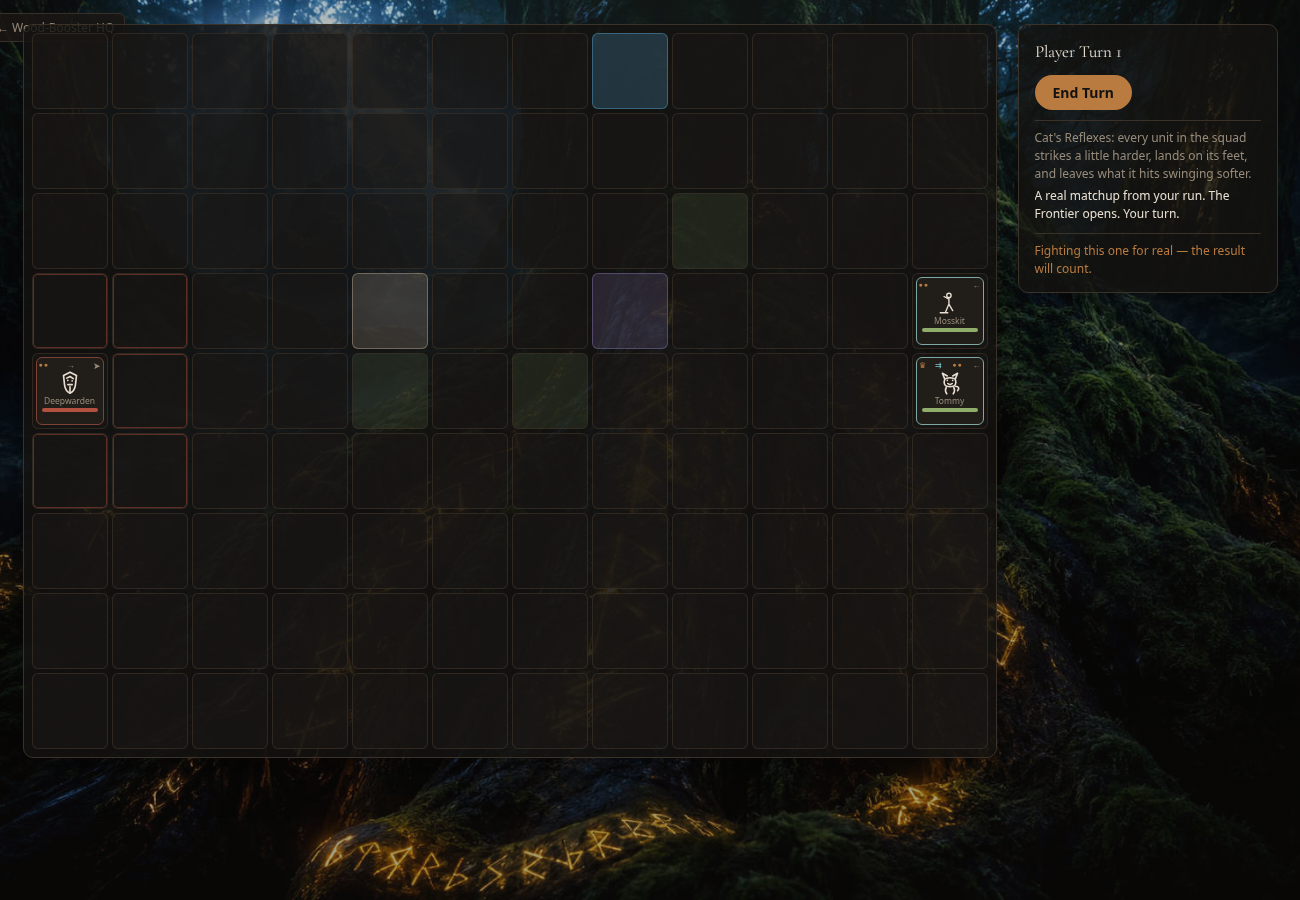
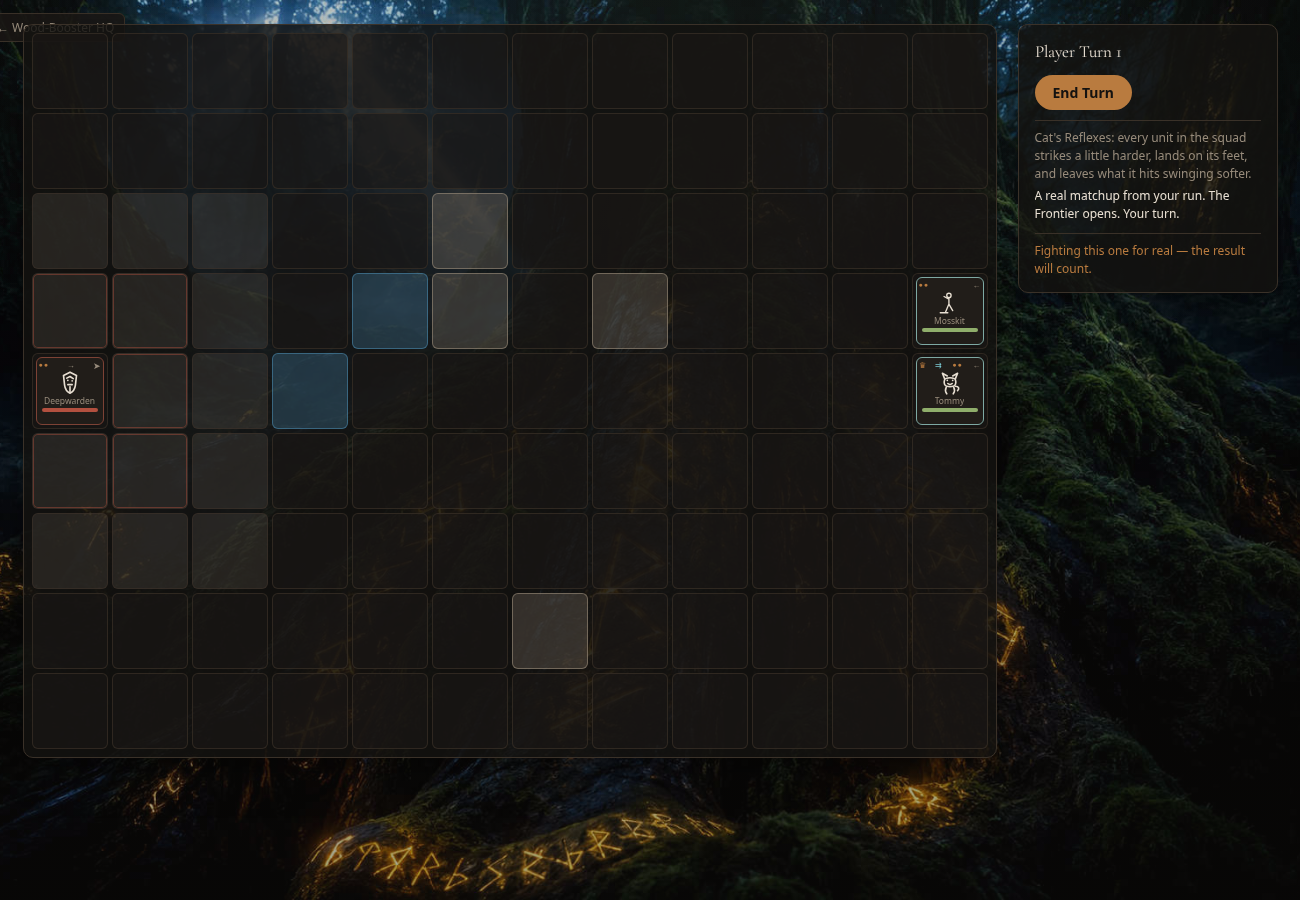
Hearthwood Frontier: Threat Zone (a bigger, movement-blocking Zone of Control)
Movement PRD §4.3's next zone sub-type after Basic Zone: "controls a
larger area and can block advancing." Tanky melee units (range===1 &&
move===2, the same real moveFromMaxHp signal already used symmetrically
on both sides) project a radius-2 zone; entering an opposing Threat
Zone cell from clean ground consumes a mover's entire move budget for
that action, so it can never be used as a through-route - but a unit
already engaged nearby (or standing adjacent) can still step directly
in and attack, avoiding a dead-end where the controller becomes
unmeleeable from outside its own zone.

Additive, not a replacement: every melee unit keeps its exact existing
Basic Zone reaction-on-leaving behavior unchanged (confirmed directly
via a dedicated check, since a replacement design would have silently
removed rotwood-husk's own already-shipped reaction attack).

Verify: both full existing suites ran clean before any new checks were
written (150/150 prototype, 25/25 real-battle, 0 regressions). Two bugs
caught while writing the NEW checks themselves (before shipping, not
after): a too-small test grid made a cell unreachable via plain unit
occupancy, unrelated to the zone; and the zone's own step-cost briefly
over-punished units already standing inside it, fixed by only applying
the cap when approaching from outside. Extended: prototype 150->155,
real-battle 25->26.

diff --git a/src/services/heartwood/tacticsEngine.js b/src/services/heartwood/tacticsEngine.js
@@ -863,7 +863,27 @@ export function reachableTilesFor(state, unitId) {
   const unit = getUnit(state, unitId)
   if (!unit || unit.hp <= 0) return []
   const occupied = state.units.filter((u) => u.id !== unitId && u.hp > 0).map((u) => u.pos)
-  return reachableTilesRaw(occupied, unit.pos, unit.move, state.grid, (pos) => TERRAIN[terrainAt(state, pos)].cost)
+  const opposingSide = unit.side === "player" ? "enemy" : "player"
+  // Only a unit APPROACHING from clean ground is capped - one already
+  // standing inside an opposing Threat Zone (adjacent to a tanky
+  // enemy, mid-engagement) can still maneuver normally nearby, the
+  // same way Basic Zone's own reaction only fires on truly LEAVING,
+  // not on every step taken while already close. Without this guard a
+  // unit that starts inside ANY opposing threat zone could barely move
+  // at all - over-punishing, not "blocks advancing" as the PRD says.
+  const startedInsideThreatZone = threatZoneControllers(state, unit.pos, opposingSide).length > 0
+  return reachableTilesRaw(occupied, unit.pos, unit.move, state.grid, (pos) => {
+    const baseCost = TERRAIN[terrainAt(state, pos)].cost
+    // Threat Zone round (Movement PRD §4.3): entering a cell inside an
+    // opposing Threat Zone consumes the mover's ENTIRE move budget for
+    // this action - a hard-to-press-past deterrent, not a flat "you
+    // may never enter" wall (that would make the controller itself
+    // unmeleeable from outside its own zone). `unit.move` (not
+    // Infinity) is exactly the cost that always exhausts whatever
+    // budget remains once spent here.
+    if (!startedInsideThreatZone && threatZoneControllers(state, pos, opposingSide).length > 0) return unit.move
+    return baseCost
+  })
 }
 
 // Enemies (or allies) within the unit's range of its CURRENT tile - a
@@ -910,6 +930,43 @@ function checkTacticsBattleEnd(state) {
 // Zone needs.
 function zocControllers(state, pos, side) {
   return state.units.filter((u) => u.side === side && u.hp > 0 && u.range === 1 && kingAdjacent(u.pos, pos))
+}
+
+// Threat Zone round (Movement PRD §4.3): "hallitsee suurempaa aluetta
+// ja voi estää etenemistä" - controls a LARGER area and can block
+// advancing. `move === 2` is the exact real, already-existing signal
+// for "this melee unit is big/tanky" (moveFromMaxHp already grants it
+// to every maxHp>=40 unit, symmetric across both sides, zero new
+// authoring) - reused directly rather than inventing a new field.
+// ADDITIVE, not a replacement: a tanky melee unit keeps its full Basic
+// Zone behavior (the reaction attack above) completely unchanged, and
+// separately ALSO projects this wider zone - confirmed necessary since
+// rotwood-husk (maxHp 58) already has real, shipped, verified Basic
+// Zone reaction behavior that a REPLACEMENT design would have silently
+// removed.
+function isTankyMelee(unit) {
+  return unit.range === 1 && unit.move === 2
+}
+
+function threatZoneControllers(state, pos, side) {
+  return state.units.filter((u) => u.side === side && u.hp > 0 && isTankyMelee(u) && chebyshevDist(u.pos, pos) <= 2)
+}
+
+// Every "row-col" cell currently controlled by a living tanky-melee
+// `side` unit, radius 2 - for the UI, the same static-board-property
+// pattern zoneOfControlCells already established.
+export function threatZoneCells(state, side) {
+  const cells = new Set()
+  for (const controller of state.units.filter((u) => u.side === side && u.hp > 0 && isTankyMelee(u))) {
+    for (let dr = -2; dr <= 2; dr++) {
+      for (let dc = -2; dc <= 2; dc++) {
+        if (dr === 0 && dc === 0) continue
+        const pos = { row: controller.pos.row + dr, col: controller.pos.col + dc }
+        if (isOnBoard(pos, state.grid)) cells.add(`${pos.row}-${pos.col}`)
+      }
+    }
+  }
+  return cells
 }
 
 // Every "row-col" cell currently controlled by a living melee `side`

diff --git a/src/components/heartwood/TacticsBoard.jsx b/src/components/heartwood/TacticsBoard.jsx
@@ -25,6 +25,7 @@ import {
   previewEnemyIntents,
   previewChargeThreat,
   zoneOfControlCells,
+  threatZoneCells,
   flankRole,
 } from "../../services/heartwood/tacticsEngine"
 import { motion } from "framer-motion"
@@ -111,6 +112,10 @@ export default function TacticsBoard({
   // currently selected - visible throughout the player's own turn,
   // same phase-gating as the charge/intent telegraphs above.
   const zocCells = useMemo(() => (battle.phase === "player" ? zoneOfControlCells(battle, "enemy") : new Set()), [battle])
+  // Threat Zone round: same static, phase-gated pattern as zocCells
+  // above - a separate set since a cell can be in one, both, or
+  // neither (the 2 mechanics are additive, not mutually exclusive).
+  const threatCells = useMemo(() => (battle.phase === "player" ? threatZoneCells(battle, "enemy") : new Set()), [battle])
 
   const cellUnit = (row, col) => battle.units.find((u) => u.pos.row === row && u.pos.col === col && u.hp > 0)
   const isReachable = (row, col) => reachable.some((p) => p.row === row && p.col === col)
@@ -187,6 +192,7 @@ export default function TacticsBoard({
       const intent = unit && unit.side === "enemy" ? intentByEnemyId.get(unit.id) : null
       const terrain = terrainHere(row, col)
       const zoc = zocCells.has(`${row}-${col}`)
+      const threatZone = threatCells.has(`${row}-${col}`)
       cells.push(
         <div
           key={`${row}-${col}`}
@@ -197,6 +203,7 @@ export default function TacticsBoard({
           data-threatened={!!threatened}
           data-terrain={terrain}
           data-zoc={zoc}
+          data-threat-zone={threatZone}
           onClick={() => handleCellClick(row, col)}
         >
           {unit && (

diff --git a/src/components/heartwood/heartwood-tactics.css b/src/components/heartwood/heartwood-tactics.css
@@ -112,6 +112,14 @@
   box-shadow: inset 0 0 0 1px color-mix(in srgb, var(--hw-hp) 45%, transparent);
 }
 
+/* Threat Zone round: a distinct, stronger warning TINT (never a ring,
+   so it composes with data-zoc's own inset ring on a cell that's both -
+   a tanky controller's zones overlap on purpose) marking every tile
+   where entering costs a mover its whole action's remaining move. */
+.hwt-cell[data-threat-zone="true"] {
+  background: color-mix(in srgb, var(--hw-curse) 16%, transparent);
+}
+
 .hwt-cell[data-reachable="true"] {
   background: color-mix(in srgb, var(--hw-moss) 22%, transparent);
   border-color: var(--hw-moss);
